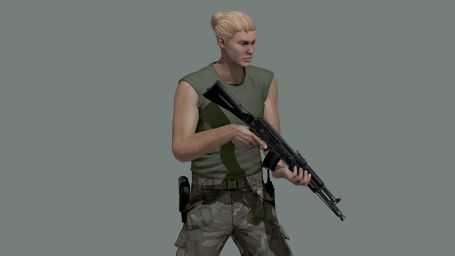
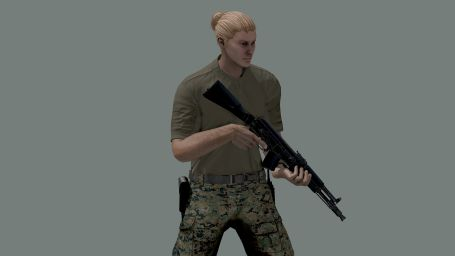
Update FGWF_I_CFR_Companion_Olga's uniform class and preview image

Changed region(s): [[0.3692, 0.0625, 0.7385, 1.0], [0.4615, 0.0312, 0.4923, 0.0938], [0.7385, 0.8125, 0.7692, 0.8438]]

diff --git a/addons/i_cfr_loreacc/CfgVehicles.hpp b/addons/i_cfr_loreacc/CfgVehicles.hpp
@@ -475,7 +475,7 @@ class CfgVehicles {
             init = "if (local (_this select 0)) then { (_this select 0) setIdentity 'FGWF_Identity_CFR_Companion_Olga'; };";
         };
 
-        uniformClass = "CFP_GUER_M81Tee";
+        uniformClass = "USP_RUGBY_G3C_RGR_MPW";
         backpack = "";
 
         weapons[] = {"CUP_arifle_SAIGA_MK03", "Throw", "Put"};
